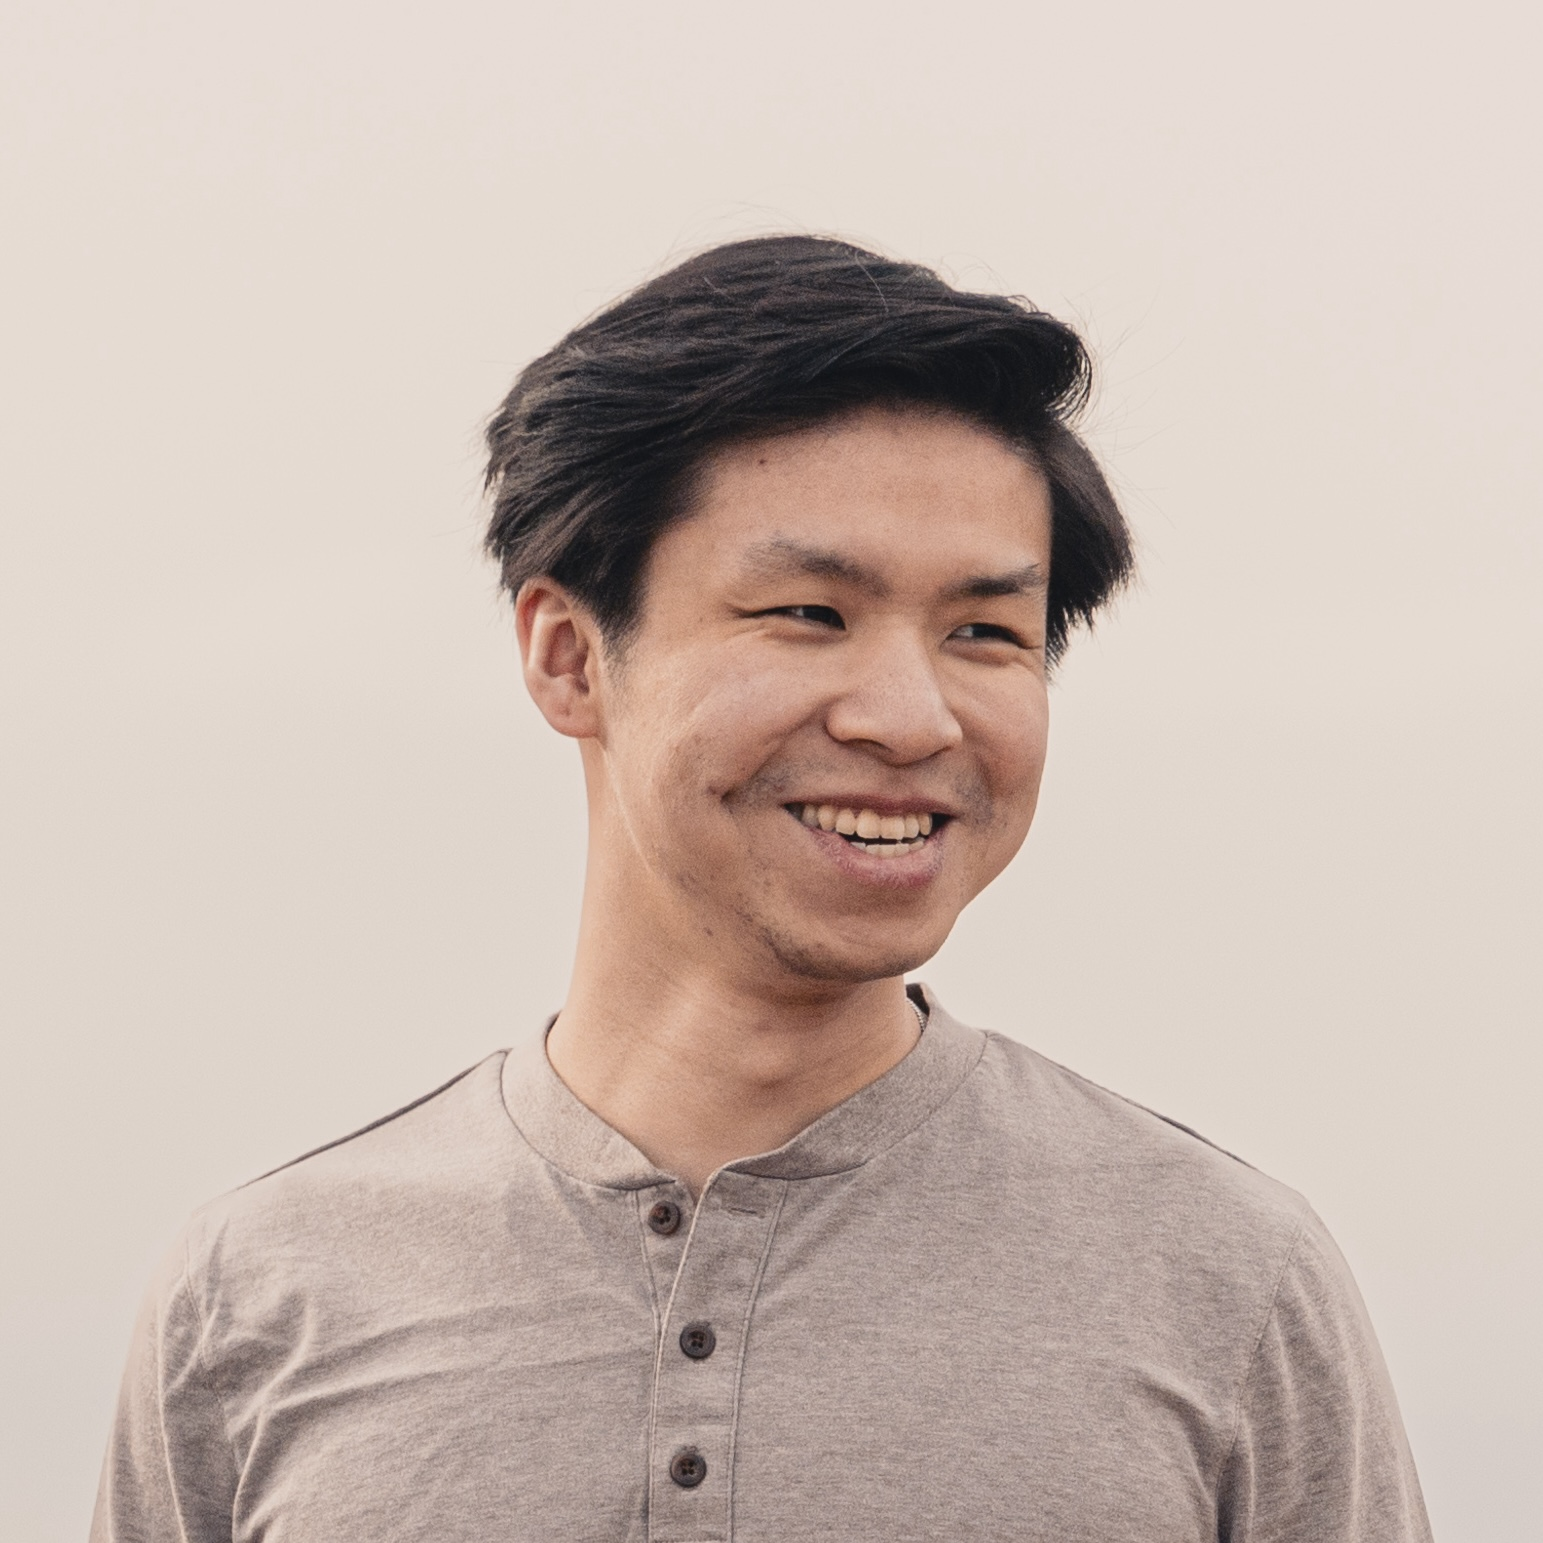
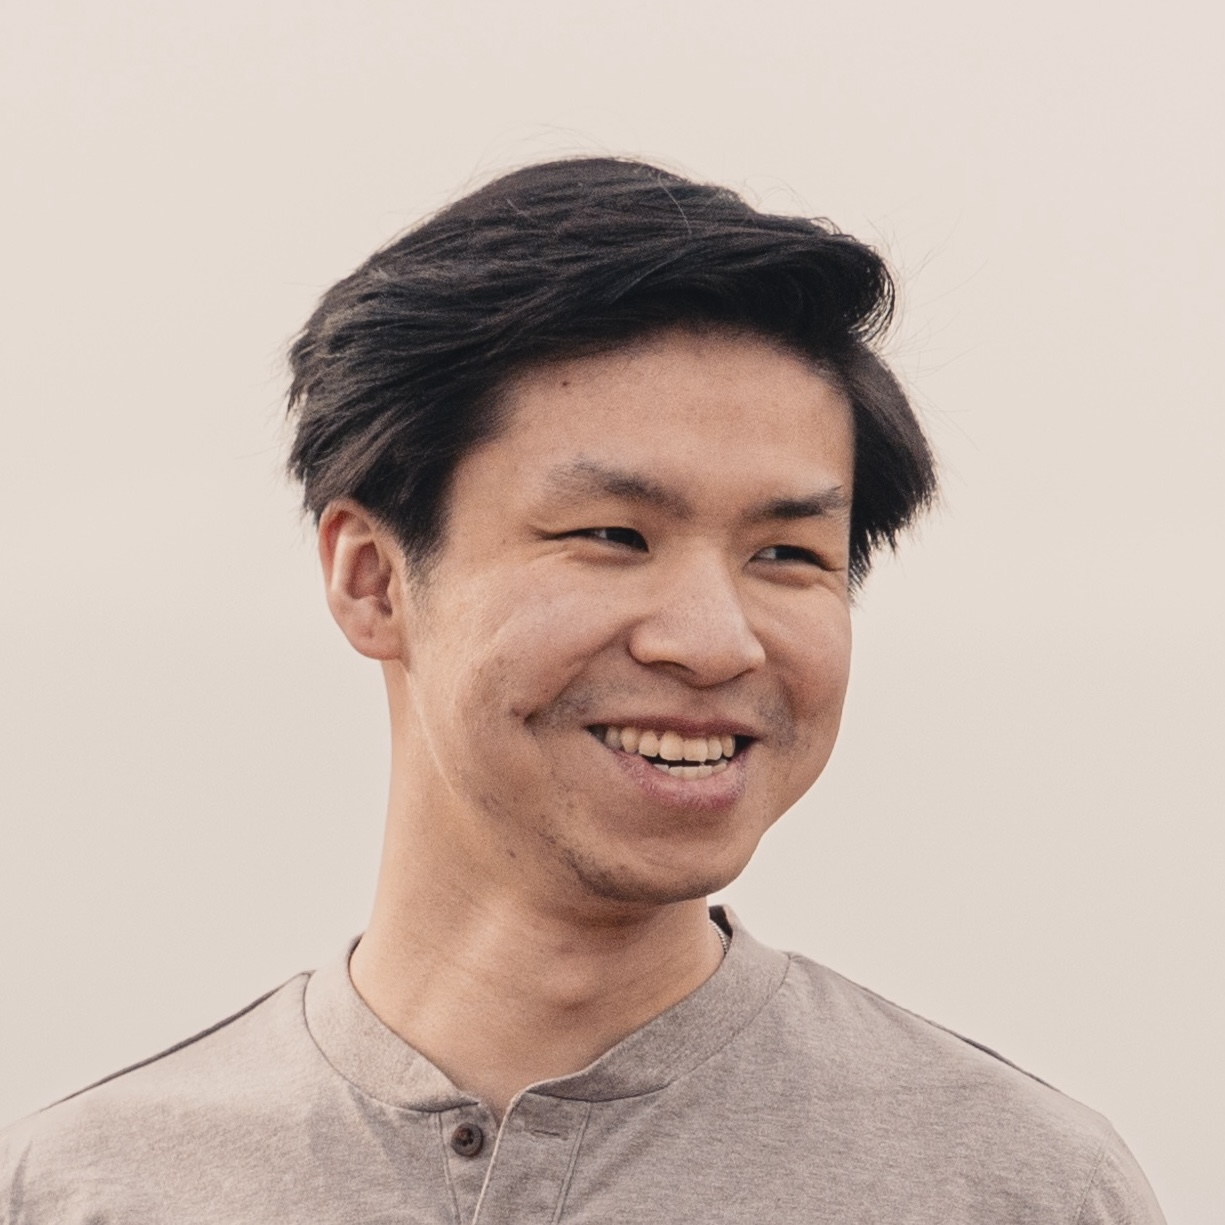
update photo

Changed region(s): [[0.0, 0.1241, 0.9616, 1.0], [0.2171, 0.9927, 0.2792, 1.0]]

diff --git a/styles/main.css b/styles/main.css
@@ -638,7 +638,7 @@ main {
 
 #bio-prof-pic {
     border-radius: 50%;
-    width: 330px;
+    width: 270px;
     float: right;
     margin: -140px 0 24px 20px;
 }
